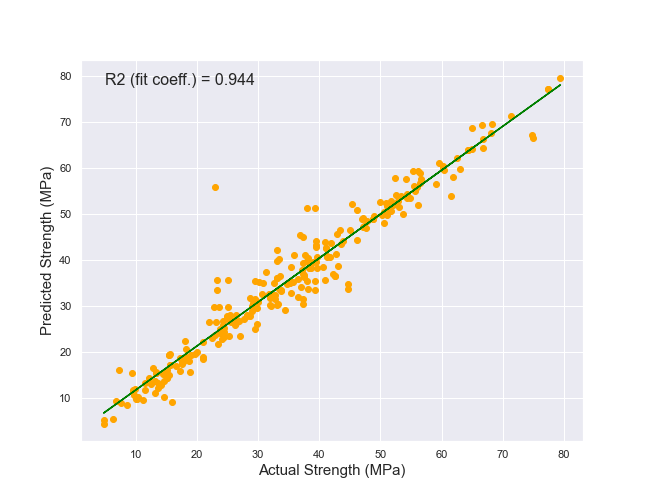
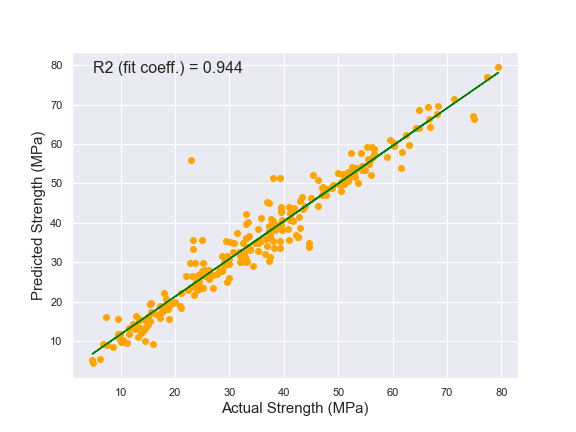
adding plots and descriptions

diff --git a/README.md b/README.md
@@ -2,7 +2,7 @@
 ------------------------------------------------
 ## Prediction of concrete compressive strength (MPa) as a function of its composition and age
 
-### Continious numeric value for comressive strength of concreate was predicted using several algorithms, such as Linear Regression, Decision Tree, Random Forest, Bagging and Gradient Boosting Regressors. Because concrete is a highly nonlinear function of age and ingredients, Random Forest and Gradient Boosting Regressors outperformed Linear Regression, Ridge and Lasso algorithms. Grid and Randomized searches were applied for tuning of chosen algorithms. 
+#### Continious numeric value for comressive strength of concreate was predicted using several algorithms, such as Linear Regression, Decision Tree, Random Forest, Bagging and Gradient Boosting Regressors. Because concrete is a highly nonlinear function of age and ingredients, Random Forest and Gradient Boosting Regressors outperformed Linear Regression, Ridge and Lasso algorithms. Grid and Randomized searches were applied for tuning of chosen algorithms. 
 
 ##### Feature engineering was critical to obtain good predictive power due to the non-normal distribution of numerical values, expecially those with large number of zero values, resulting in double gaussian shapes. 
 
@@ -14,6 +14,6 @@ Found feature imprtances:
  
  Predicted vs. actual concrete strength values:
  
- ![predicted_actual_strength](output/predicted_actual_strength.png)
+ ![final_model_score](output/final_model_score.png)
 
 
